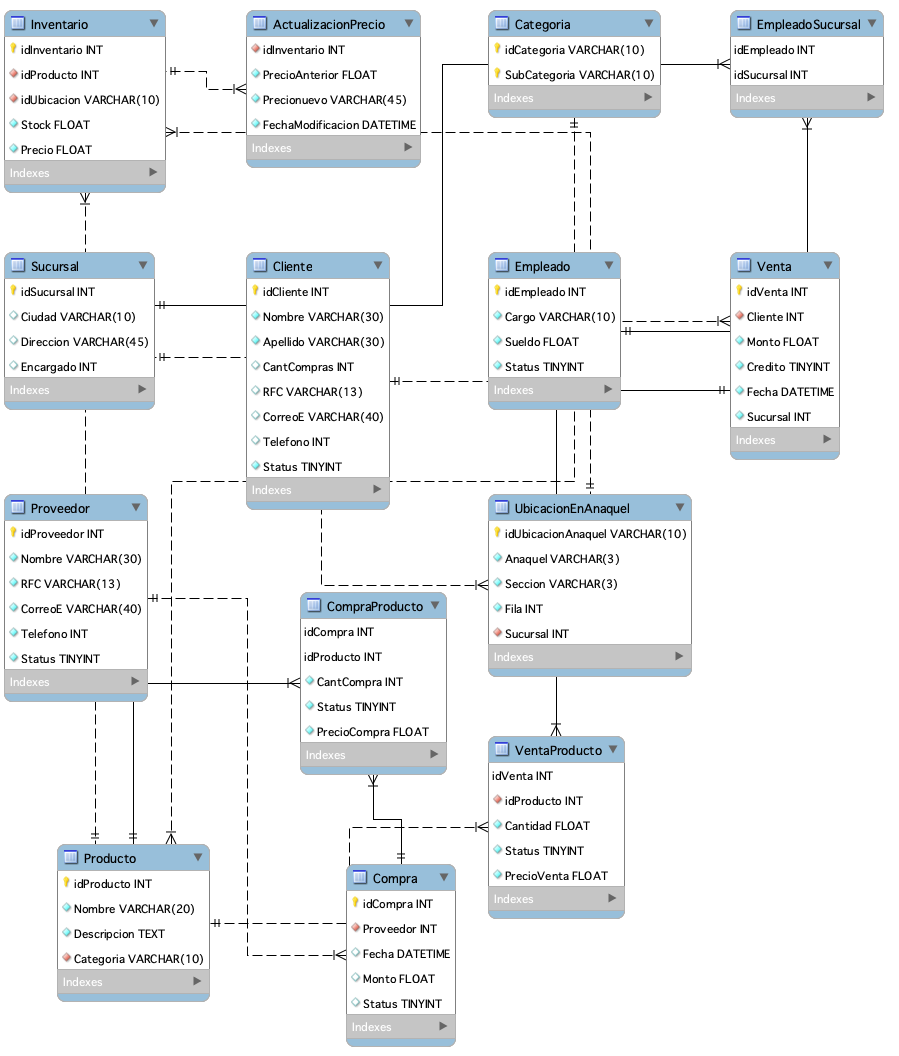
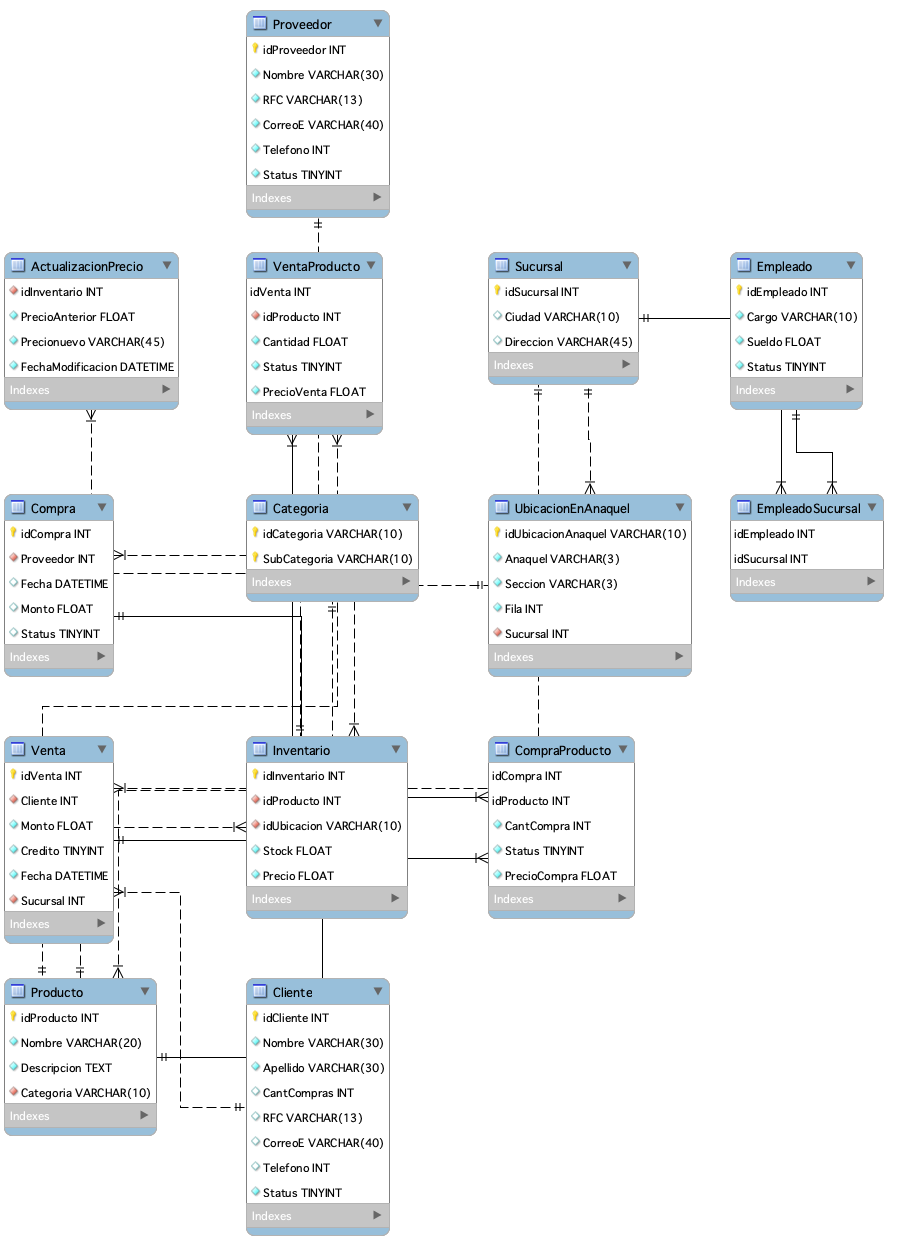
Se modifica readme, elimina una columna y agrega llave  foranea
Modifica readme
Se elimina columna Encargado de sucursal
Se agrega llave foranea en venta

diff --git a/README.md b/README.md
@@ -8,33 +8,33 @@
 
 ### Detalles de las tablas
 
-| Ventas   |          |      |      |         |            |
-| -------- | -------- | ---- | ---- | ------- | ---------- |
-| Field    | Type     | Null | Key  | Default | References |
-| idVentas | int      | NO   | PRI  | NULL    |            |
-| Cliente  | int      | NO   | MUL  | NULL    |            |
-| Monto    | float    | NO   |      | NULL    |            |
-| Credito  | tinyint  | NO   |      | 0       |            |
-| Fecha    | datetime | NO   |      | NULL    |            |
-| Sucursal | int      | NO   |      | NULL    |            |
+| Venta    |          |      |      |         |                      |
+| -------- | -------- | ---- | ---- | ------- | -------------------- |
+| Field    | Type     | Null | Key  | Default | References           |
+| idVenta  | int      | NO   | PRI  | NULL    |                      |
+| Cliente  | int      | NO   | MUL  | NULL    | Cliente(idCliente)   |
+| Monto    | float    | NO   |      | NULL    |                      |
+| Credito  | tinyint  | NO   |      | 0       |                      |
+| Fecha    | datetime | NO   |      | NULL    |                      |
+| Sucursal | int      | NO   | MUL  | NULL    | Sucursal(idSucursal) |
 
-| VentasProductos |         |      |      |         |                        |
-| --------------- | ------- | ---- | ---- | ------- | ---------------------- |
-| Field           | Type    | Null | Key  | Default | References             |
-| idVenta         | int     | NO   | PRI  | NULL    | Ventas(idVentas)       |
-| idProductos     | int     | NO   | MUL  | NULL    | Productos(idProductos) |
-| Cantidad        | float   | NO   |      | NULL    |                        |
-| Status          | tinyint | NO   |      | 0       |                        |
-| PrecioVenta     | float   | NO   |      | NULL    |                        |
+| VentaProducto |         |      |      |         |                      |
+| ------------- | ------- | ---- | ---- | ------- | -------------------- |
+| Field         | Type    | Null | Key  | Default | References           |
+| idVenta       | int     | NO   | PRI  | NULL    | Venta(idVenta)       |
+| idProducto    | int     | NO   | MUL  | NULL    | Producto(idProducto) |
+| Cantidad      | float   | NO   |      | NULL    |                      |
+| Status        | tinyint | NO   |      | 0       |                      |
+| PrecioVenta   | float   | NO   |      | NULL    |                      |
 
-| UbicacionAnaqueles   |             |      |      |         |            |
-| -------------------- | ----------- | ---- | ---- | ------- | ---------- |
-| Field                | Type        | Null | Key  | Default | References |
-| idUbicacionAnaqueles | varchar(10) | NO   | PRI  | NULL    |            |
-| Anaquel              | varchar(3)  | NO   |      | NULL    |            |
-| Seccion              | varchar(3)  | NO   |      | NULL    |            |
-| Fila                 | int         | NO   |      | NULL    |            |
-| Sucursal             | int         | NO   | MUL  | NULL    |            |
+| UbicacionEnAnaquel  |             |      |      |         |                      |
+| ------------------- | ----------- | ---- | ---- | ------- | -------------------- |
+| Field               | Type        | Null | Key  | Default | References           |
+| idUbicacionAnaquele | varchar(10) | NO   | PRI  | NULL    |                      |
+| Anaquel             | varchar(3)  | NO   |      | NULL    |                      |
+| Seccion             | varchar(3)  | NO   |      | NULL    |                      |
+| Fila                | int         | NO   |      | NULL    |                      |
+| Sucursal            | int         | NO   | MUL  | NULL    | Sucursal(idSucursal) |
 
 | Sucursal   |             |      |      |         |            |
 | ---------- | ----------- | ---- | ---- | ------- | ---------- |
@@ -42,7 +42,6 @@
 | idSucursal | int         | NO   | PRI  | NULL    |            |
 | Ciudad     | varchar(10) | YES  |      | NULL    |            |
 | Direccion  | varchar(45) | YES  |      | NULL    |            |
-| Encargado  | int         | YES  |      | NULL    |            |
 
 | Proveedor   |             |      |      |         |            |
 | ----------- | ----------- | ---- | ---- | ------- | ---------- |
@@ -54,22 +53,22 @@
 | Telefono    | int         | NO   |      | NULL    |            |
 | Status      | tinyint     | NO   |      | NULL    |            |
 
-| Productos   |             |      |      |         |            |
-| ----------- | ----------- | ---- | ---- | ------- | ---------- |
-| Field       | Type        | Null | Key  | Default | References |
-| idProductos | int         | NO   | PRI  | NULL    |            |
-| Nombre      | varchar(20) | NO   |      | NULL    |            |
-| Descripcion | text        | NO   |      | NULL    |            |
-| Categoria   | varchar(10) | NO   | MUL  | NULL    |            |
+| Producto    |             |      |      |         |                        |
+| ----------- | ----------- | ---- | ---- | ------- | ---------------------- |
+| Field       | Type        | Null | Key  | Default | References             |
+| idProducto  | int         | NO   | PRI  | NULL    |                        |
+| Nombre      | varchar(20) | NO   |      | NULL    |                        |
+| Descripcion | text        | NO   |      | NULL    |                        |
+| Categoria   | varchar(10) | NO   | MUL  | NULL    | Categoria(idCategoria) |
 
-| inventario   |             |      |      |         |                                          |
-| ------------ | ----------- | ---- | ---- | ------- | ---------------------------------------- |
-| Field        | Type        | Null | Key  | Default | References                               |
-| idInventario | int         | NO   | PRI  | NULL    |                                          |
-| idProducto   | int         | NO   | MUL  | NULL    | Productos(idProductos)                   |
-| idUbicacion  | varchar(10) | NO   | MUL  | NULL    | UbicacionAnaqueles(idUbicacionAnaqueles) |
-| Stock        | float       | NO   |      | NULL    |                                          |
-| Precio       | float       | NO   |      | NULL    |                                          |
+| inventario   |             |      |      |         |                                        |
+| ------------ | ----------- | ---- | ---- | ------- | -------------------------------------- |
+| Field        | Type        | Null | Key  | Default | References                             |
+| idInventario | int         | NO   | PRI  | NULL    |                                        |
+| idProducto   | int         | NO   | MUL  | NULL    | Producto(idProductos)                  |
+| idUbicacion  | varchar(10) | NO   | MUL  | NULL    | UbicacionEnAnaquel(idUbicacionAnaquel) |
+| Stock        | float       | NO   |      | NULL    |                                        |
+| Precio       | float       | NO   |      | NULL    |                                        |
 
 | EmpleadoSucursal |      |      |      |         |                      |
 | ---------------- | ---- | ---- | ---- | ------- | -------------------- |
@@ -85,28 +84,28 @@
 | Sueldo     | float       | NO   |      | NULL    |            |
 | Status     | tinyint     | NO   |      | 0       |            |
 
-| Compras   |          |      |      |         |                        |
+| Compra    |          |      |      |         |                        |
 | --------- | -------- | ---- | ---- | ------- | ---------------------- |
 | Field     | Type     | Null | Key  | Default | References             |
-| idCompras | int      | NO   | PRI  | NULL    |                        |
-| Provedor  | int      | NO   | MUL  | NULL    | Proveedor(idProveedor) |
+| idCompra  | int      | NO   | PRI  | NULL    |                        |
+| Proveedor | int      | NO   | MUL  | NULL    | Proveedor(idProveedor) |
 | Fecha     | datetime | YES  |      | NULL    |                        |
 | Monto     | float    | YES  |      | NULL    |                        |
 | Status    | tinyint  | YES  |      | NULL    |                        |
 
-| ComprasProductos |         |      |      |         |                        |
-| ---------------- | ------- | ---- | ---- | ------- | ---------------------- |
-| Field            | Type    | Null | Key  | Default | References             |
-| idCompra         | int     | NO   | PRI  | NULL    | Compras(idCompras)     |
-| idProducto       | int     | NO   | PRI  | NULL    | Productos(idProductos) |
-| CantCompra       | int     | NO   |      | NULL    |                        |
-| Status           | tinyint | NO   |      | 0       |                        |
-| PrecioCompra     | float   | NO   |      | NULL    |                        |
+| CompraProducto |         |      |      |         |                      |
+| -------------- | ------- | ---- | ---- | ------- | -------------------- |
+| Field          | Type    | Null | Key  | Default | References           |
+| idCompra       | int     | NO   | PRI  | NULL    | Compra(idCompra)     |
+| idProducto     | int     | NO   | PRI  | NULL    | Producto(idProducto) |
+| CantCompra     | int     | NO   |      | NULL    |                      |
+| Status         | tinyint | NO   |      | 0       |                      |
+| PrecioCompra   | float   | NO   |      | NULL    |                      |
 
 | Clientes    |             |      |      |         |            |
 | ----------- | ----------- | ---- | ---- | ------- | ---------- |
 | Field       | Type        | Null | Key  | Default | References |
-| idClientes  | int         | NO   | PRI  | NULL    |            |
+| idCliente   | int         | NO   | PRI  | NULL    |            |
 | Nombre      | varchar(30) | NO   |      | NULL    |            |
 | Apellido    | varchar(30) | NO   |      | NULL    |            |
 | CantCompras | int         | YES  |      | NULL    |            |
